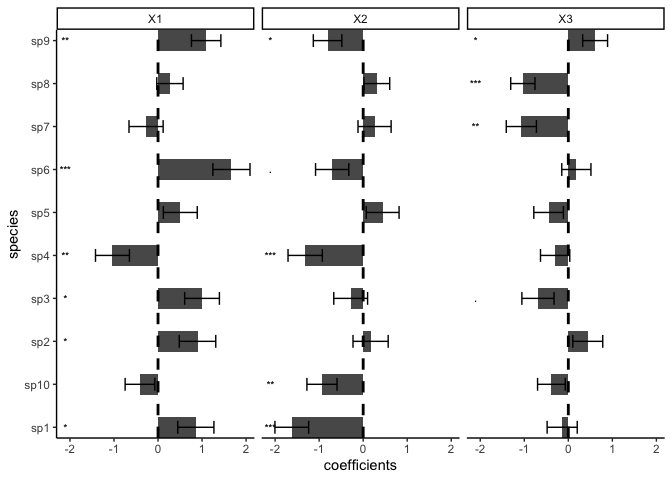
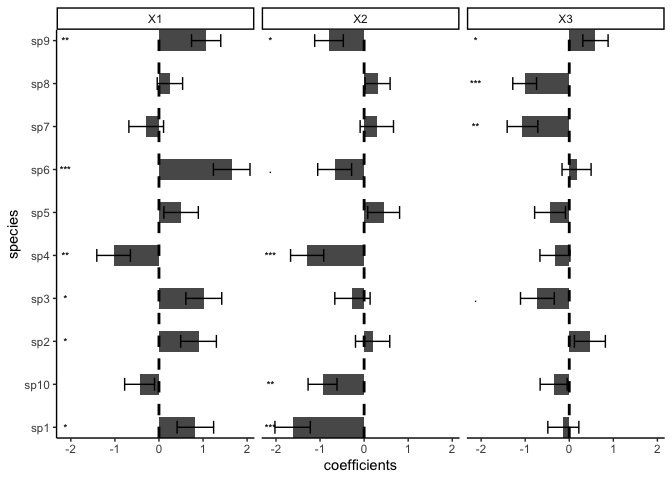
update install instruction

diff --git a/README.md b/README.md
@@ -6,6 +6,7 @@ state and is being actively
 developed.](http://www.repostatus.org/badges/latest/active.svg)](http://www.repostatus.org/#active)
 [![License: GPL
 v3](https://img.shields.io/badge/License-GPL%20v3-blue.svg)](https://www.gnu.org/licenses/gpl-3.0)
+[![CRAN_Status_Badge](http://www.r-pkg.org/badges/version/sjSDM)](https://cran.r-project.org/package=sjSDM)
 ![R-CMD-check](https://github.com/TheoreticalEcology/s-jSDM/workflows/R-CMD-check/badge.svg?branch=master)
 [![Publication](https://img.shields.io/badge/Publication-10.1111/2041-green.svg)](https://besjournals.onlinelibrary.wiley.com/doi/abs/10.1111/2041-210X.13687)
 
@@ -32,7 +33,7 @@ instructions below). Note: for both the R and the python package, python
 Install the package via
 
 ``` r
-devtools::install_github("https://github.com/TheoreticalEcology/s-jSDM", subdir = "sjSDM")
+install.packages("sjSDM")
 ```
 
 Depencies for the package can be installed before or after installing
@@ -70,7 +71,7 @@ Simulate a community and fit model:
 library(sjSDM)
 ```
 
-    ## ── Attaching sjSDM ──────────────────────────────────────────────────── 1.0.1 ──
+    ## ── Attaching sjSDM ──────────────────────────────────────────────────── 1.0.0 ──
 
     ## ✓ torch <environment> 
     ## ✓ torch_optimizer  
@@ -88,73 +89,73 @@ model <- sjSDM(Y = Occ, env = linear(data = Env, formula = ~X1+X2+X3), spatial =
 summary(model)
 ```
 
-    ## LogLik:  -518.5017 
+    ## LogLik:  -523.0463 
     ## Regularization loss:  0 
     ## 
     ## Species-species correlation matrix: 
     ## 
     ##  sp1  1.0000                                 
-    ##  sp2 -0.3470  1.0000                             
-    ##  sp3 -0.1460 -0.3670  1.0000                         
-    ##  sp4 -0.1420 -0.3340  0.6970  1.0000                     
-    ##  sp5  0.5890 -0.3290 -0.0930 -0.0910  1.0000                 
-    ##  sp6 -0.2270  0.3710  0.1460  0.1490 -0.0520  1.0000             
-    ##  sp7  0.4550 -0.1410  0.1280  0.1300  0.4940  0.2480  1.0000         
-    ##  sp8  0.2790  0.1620 -0.4380 -0.4200  0.2300 -0.0310  0.1360  1.0000     
-    ##  sp9 -0.0660 -0.0630  0.0730  0.0700 -0.3090 -0.2730 -0.2120 -0.1030  1.0000 
-    ##  sp10     0.2000  0.3850 -0.6080 -0.5740  0.2340  0.1050  0.1230  0.4380 -0.2360  1.0000
+    ##  sp2 -0.3370  1.0000                             
+    ##  sp3 -0.1490 -0.3520  1.0000                         
+    ##  sp4 -0.1690 -0.3120  0.6950  1.0000                     
+    ##  sp5  0.6020 -0.3360 -0.0950 -0.1020  1.0000                 
+    ##  sp6 -0.2250  0.3830  0.1630  0.1670 -0.0940  1.0000             
+    ##  sp7  0.4590 -0.1390  0.1470  0.1230  0.4940  0.2370  1.0000         
+    ##  sp8  0.2910  0.1520 -0.4220 -0.4120  0.2240 -0.0590  0.1370  1.0000     
+    ##  sp9 -0.0990 -0.0580  0.0720  0.0620 -0.3110 -0.2330 -0.2330 -0.0850  1.0000 
+    ##  sp10     0.2280  0.3710 -0.6010 -0.5630  0.2410  0.0750  0.1310  0.4160 -0.2220  1.0000
     ## 
     ## 
     ## 
     ## Spatial: 
-    ##             sp1        sp2       sp3       sp4       sp5       sp6       sp7
-    ## X1:X2 0.2117761 -0.5411496 0.5273638 0.0178497 0.3714764 0.1739493 0.4265523
-    ##             sp8       sp9      sp10
-    ## X1:X2 0.4786434 0.2528224 0.2498071
+    ##             sp1        sp2       sp3         sp4       sp5       sp6      sp7
+    ## X1:X2 0.2097643 -0.5288849 0.5181209 0.009623682 0.3563328 0.1980719 0.423929
+    ##             sp8       sp9     sp10
+    ## X1:X2 0.4698656 0.2615229 0.257226
     ## 
     ## 
     ## 
     ##                  Estimate  Std.Err Z value Pr(>|z|)    
-    ## sp1 (Intercept)  -0.03613  0.20898   -0.17  0.86273    
-    ## sp1 X1            0.85837  0.41098    2.09  0.03674 *  
-    ## sp1 X2           -1.62117  0.38306   -4.23  2.3e-05 ***
-    ## sp1 X3           -0.13945  0.34191   -0.41  0.68339    
-    ## sp2 (Intercept)   0.00787  0.21249    0.04  0.97044    
-    ## sp2 X1            0.89662  0.41437    2.16  0.03048 *  
-    ## sp2 X2            0.16857  0.39930    0.42  0.67290    
-    ## sp2 X3            0.44143  0.34029    1.30  0.19456    
-    ## sp3 (Intercept)  -0.34590  0.21713   -1.59  0.11114    
-    ## sp3 X1            0.99932  0.39444    2.53  0.01129 *  
-    ## sp3 X2           -0.28363  0.38410   -0.74  0.46027    
-    ## sp3 X3           -0.68942  0.36510   -1.89  0.05899 .  
-    ## sp4 (Intercept)  -0.06449  0.20208   -0.32  0.74962    
-    ## sp4 X1           -1.03488  0.38530   -2.69  0.00723 ** 
-    ## sp4 X2           -1.31683  0.38969   -3.38  0.00073 ***
-    ## sp4 X3           -0.29948  0.33239   -0.90  0.36760    
-    ## sp5 (Intercept)  -0.12917  0.20334   -0.64  0.52526    
-    ## sp5 X1            0.50595  0.38494    1.31  0.18872    
-    ## sp5 X2            0.44272  0.37256    1.19  0.23470    
-    ## sp5 X3           -0.44773  0.33606   -1.33  0.18276    
-    ## sp6 (Intercept)   0.21687  0.20450    1.06  0.28891    
-    ## sp6 X1            1.66739  0.42128    3.96  7.6e-05 ***
-    ## sp6 X2           -0.70400  0.37734   -1.87  0.06209 .  
-    ## sp6 X3            0.18265  0.33114    0.55  0.58124    
-    ## sp7 (Intercept)   0.01107  0.20303    0.05  0.95651    
-    ## sp7 X1           -0.27156  0.38754   -0.70  0.48348    
-    ## sp7 X2            0.25865  0.37613    0.69  0.49165    
-    ## sp7 X3           -1.06692  0.34221   -3.12  0.00182 ** 
-    ## sp8 (Intercept)   0.15339  0.15690    0.98  0.32827    
-    ## sp8 X1            0.27079  0.29912    0.91  0.36531    
-    ## sp8 X2            0.30999  0.29261    1.06  0.28942    
-    ## sp8 X3           -1.03282  0.27546   -3.75  0.00018 ***
-    ## sp9 (Intercept)   0.01853  0.17201    0.11  0.91422    
-    ## sp9 X1            1.09314  0.33410    3.27  0.00107 ** 
-    ## sp9 X2           -0.80828  0.32387   -2.50  0.01257 *  
-    ## sp9 X3            0.60859  0.28280    2.15  0.03140 *  
-    ## sp10 (Intercept) -0.06874  0.18586   -0.37  0.71147    
-    ## sp10 X1          -0.40988  0.33714   -1.22  0.22407    
-    ## sp10 X2          -0.93544  0.34203   -2.73  0.00624 ** 
-    ## sp10 X3          -0.38387  0.31449   -1.22  0.22223    
+    ## sp1 (Intercept)  -0.03977  0.21206   -0.19  0.85124    
+    ## sp1 X1            0.82571  0.41443    1.99  0.04633 *  
+    ## sp1 X2           -1.62219  0.40169   -4.04  5.4e-05 ***
+    ## sp1 X3           -0.13454  0.35189   -0.38  0.70221    
+    ## sp2 (Intercept)  -0.01476  0.21101   -0.07  0.94422    
+    ## sp2 X1            0.89789  0.40524    2.22  0.02671 *  
+    ## sp2 X2            0.19296  0.38875    0.50  0.61965    
+    ## sp2 X3            0.46829  0.35138    1.33  0.18263    
+    ## sp3 (Intercept)  -0.36290  0.22196   -1.64  0.10204    
+    ## sp3 X1            1.01730  0.40704    2.50  0.01245 *  
+    ## sp3 X2           -0.26439  0.40040   -0.66  0.50905    
+    ## sp3 X3           -0.72271  0.38358   -1.88  0.05955 .  
+    ## sp4 (Intercept)  -0.05324  0.20073   -0.27  0.79082    
+    ## sp4 X1           -1.02942  0.38118   -2.70  0.00692 ** 
+    ## sp4 X2           -1.29268  0.37599   -3.44  0.00059 ***
+    ## sp4 X3           -0.32540  0.33982   -0.96  0.33828    
+    ## sp5 (Intercept)  -0.14809  0.20236   -0.73  0.46427    
+    ## sp5 X1            0.50222  0.39101    1.28  0.19899    
+    ## sp5 X2            0.44313  0.36177    1.22  0.22062    
+    ## sp5 X3           -0.43606  0.34987   -1.25  0.21263    
+    ## sp6 (Intercept)   0.16414  0.20103    0.82  0.41422    
+    ## sp6 X1            1.65042  0.41523    3.97  7.0e-05 ***
+    ## sp6 X2           -0.66862  0.38461   -1.74  0.08213 .  
+    ## sp6 X3            0.16584  0.32957    0.50  0.61482    
+    ## sp7 (Intercept)  -0.00151  0.20626   -0.01  0.99416    
+    ## sp7 X1           -0.28922  0.39346   -0.74  0.46230    
+    ## sp7 X2            0.28814  0.37885    0.76  0.44691    
+    ## sp7 X3           -1.06155  0.34752   -3.05  0.00225 ** 
+    ## sp8 (Intercept)   0.13099  0.15214    0.86  0.38925    
+    ## sp8 X1            0.24814  0.28800    0.86  0.38890    
+    ## sp8 X2            0.30580  0.28384    1.08  0.28131    
+    ## sp8 X3           -1.01204  0.26964   -3.75  0.00017 ***
+    ## sp9 (Intercept)   0.03149  0.17057    0.18  0.85352    
+    ## sp9 X1            1.07060  0.33145    3.23  0.00124 ** 
+    ## sp9 X2           -0.79677  0.32507   -2.45  0.01424 *  
+    ## sp9 X3            0.59462  0.28658    2.07  0.03800 *  
+    ## sp10 (Intercept) -0.06706  0.18177   -0.37  0.71219    
+    ## sp10 X1          -0.43999  0.33907   -1.30  0.19441    
+    ## sp10 X2          -0.94309  0.32855   -2.87  0.00410 ** 
+    ## sp10 X3          -0.35444  0.30660   -1.16  0.24766    
     ## ---
     ## Signif. codes:  0 '***' 0.001 '**' 0.01 '*' 0.05 '.' 0.1 ' ' 1
 
@@ -162,73 +163,73 @@ summary(model)
 plot(model)
 ```
 
-    ## LogLik:  -518.5017 
+    ## LogLik:  -523.0463 
     ## Regularization loss:  0 
     ## 
     ## Species-species correlation matrix: 
     ## 
     ##  sp1  1.0000                                 
-    ##  sp2 -0.3470  1.0000                             
-    ##  sp3 -0.1460 -0.3670  1.0000                         
-    ##  sp4 -0.1420 -0.3340  0.6970  1.0000                     
-    ##  sp5  0.5890 -0.3290 -0.0930 -0.0910  1.0000                 
-    ##  sp6 -0.2270  0.3710  0.1460  0.1490 -0.0520  1.0000             
-    ##  sp7  0.4550 -0.1410  0.1280  0.1300  0.4940  0.2480  1.0000         
-    ##  sp8  0.2790  0.1620 -0.4380 -0.4200  0.2300 -0.0310  0.1360  1.0000     
-    ##  sp9 -0.0660 -0.0630  0.0730  0.0700 -0.3090 -0.2730 -0.2120 -0.1030  1.0000 
-    ##  sp10     0.2000  0.3850 -0.6080 -0.5740  0.2340  0.1050  0.1230  0.4380 -0.2360  1.0000
+    ##  sp2 -0.3370  1.0000                             
+    ##  sp3 -0.1490 -0.3520  1.0000                         
+    ##  sp4 -0.1690 -0.3120  0.6950  1.0000                     
+    ##  sp5  0.6020 -0.3360 -0.0950 -0.1020  1.0000                 
+    ##  sp6 -0.2250  0.3830  0.1630  0.1670 -0.0940  1.0000             
+    ##  sp7  0.4590 -0.1390  0.1470  0.1230  0.4940  0.2370  1.0000         
+    ##  sp8  0.2910  0.1520 -0.4220 -0.4120  0.2240 -0.0590  0.1370  1.0000     
+    ##  sp9 -0.0990 -0.0580  0.0720  0.0620 -0.3110 -0.2330 -0.2330 -0.0850  1.0000 
+    ##  sp10     0.2280  0.3710 -0.6010 -0.5630  0.2410  0.0750  0.1310  0.4160 -0.2220  1.0000
     ## 
     ## 
     ## 
     ## Spatial: 
-    ##             sp1        sp2       sp3       sp4       sp5       sp6       sp7
-    ## X1:X2 0.2117761 -0.5411496 0.5273638 0.0178497 0.3714764 0.1739493 0.4265523
-    ##             sp8       sp9      sp10
-    ## X1:X2 0.4786434 0.2528224 0.2498071
+    ##             sp1        sp2       sp3         sp4       sp5       sp6      sp7
+    ## X1:X2 0.2097643 -0.5288849 0.5181209 0.009623682 0.3563328 0.1980719 0.423929
+    ##             sp8       sp9     sp10
+    ## X1:X2 0.4698656 0.2615229 0.257226
     ## 
     ## 
     ## 
     ##                  Estimate  Std.Err Z value Pr(>|z|)    
-    ## sp1 (Intercept)  -0.03613  0.20898   -0.17  0.86273    
-    ## sp1 X1            0.85837  0.41098    2.09  0.03674 *  
-    ## sp1 X2           -1.62117  0.38306   -4.23  2.3e-05 ***
-    ## sp1 X3           -0.13945  0.34191   -0.41  0.68339    
-    ## sp2 (Intercept)   0.00787  0.21249    0.04  0.97044    
-    ## sp2 X1            0.89662  0.41437    2.16  0.03048 *  
-    ## sp2 X2            0.16857  0.39930    0.42  0.67290    
-    ## sp2 X3            0.44143  0.34029    1.30  0.19456    
-    ## sp3 (Intercept)  -0.34590  0.21713   -1.59  0.11114    
-    ## sp3 X1            0.99932  0.39444    2.53  0.01129 *  
-    ## sp3 X2           -0.28363  0.38410   -0.74  0.46027    
-    ## sp3 X3           -0.68942  0.36510   -1.89  0.05899 .  
-    ## sp4 (Intercept)  -0.06449  0.20208   -0.32  0.74962    
-    ## sp4 X1           -1.03488  0.38530   -2.69  0.00723 ** 
-    ## sp4 X2           -1.31683  0.38969   -3.38  0.00073 ***
-    ## sp4 X3           -0.29948  0.33239   -0.90  0.36760    
-    ## sp5 (Intercept)  -0.12917  0.20334   -0.64  0.52526    
-    ## sp5 X1            0.50595  0.38494    1.31  0.18872    
-    ## sp5 X2            0.44272  0.37256    1.19  0.23470    
-    ## sp5 X3           -0.44773  0.33606   -1.33  0.18276    
-    ## sp6 (Intercept)   0.21687  0.20450    1.06  0.28891    
-    ## sp6 X1            1.66739  0.42128    3.96  7.6e-05 ***
-    ## sp6 X2           -0.70400  0.37734   -1.87  0.06209 .  
-    ## sp6 X3            0.18265  0.33114    0.55  0.58124    
-    ## sp7 (Intercept)   0.01107  0.20303    0.05  0.95651    
-    ## sp7 X1           -0.27156  0.38754   -0.70  0.48348    
-    ## sp7 X2            0.25865  0.37613    0.69  0.49165    
-    ## sp7 X3           -1.06692  0.34221   -3.12  0.00182 ** 
-    ## sp8 (Intercept)   0.15339  0.15690    0.98  0.32827    
-    ## sp8 X1            0.27079  0.29912    0.91  0.36531    
-    ## sp8 X2            0.30999  0.29261    1.06  0.28942    
-    ## sp8 X3           -1.03282  0.27546   -3.75  0.00018 ***
-    ## sp9 (Intercept)   0.01853  0.17201    0.11  0.91422    
-    ## sp9 X1            1.09314  0.33410    3.27  0.00107 ** 
-    ## sp9 X2           -0.80828  0.32387   -2.50  0.01257 *  
-    ## sp9 X3            0.60859  0.28280    2.15  0.03140 *  
-    ## sp10 (Intercept) -0.06874  0.18586   -0.37  0.71147    
-    ## sp10 X1          -0.40988  0.33714   -1.22  0.22407    
-    ## sp10 X2          -0.93544  0.34203   -2.73  0.00624 ** 
-    ## sp10 X3          -0.38387  0.31449   -1.22  0.22223    
+    ## sp1 (Intercept)  -0.03977  0.21206   -0.19  0.85124    
+    ## sp1 X1            0.82571  0.41443    1.99  0.04633 *  
+    ## sp1 X2           -1.62219  0.40169   -4.04  5.4e-05 ***
+    ## sp1 X3           -0.13454  0.35189   -0.38  0.70221    
+    ## sp2 (Intercept)  -0.01476  0.21101   -0.07  0.94422    
+    ## sp2 X1            0.89789  0.40524    2.22  0.02671 *  
+    ## sp2 X2            0.19296  0.38875    0.50  0.61965    
+    ## sp2 X3            0.46829  0.35138    1.33  0.18263    
+    ## sp3 (Intercept)  -0.36290  0.22196   -1.64  0.10204    
+    ## sp3 X1            1.01730  0.40704    2.50  0.01245 *  
+    ## sp3 X2           -0.26439  0.40040   -0.66  0.50905    
+    ## sp3 X3           -0.72271  0.38358   -1.88  0.05955 .  
+    ## sp4 (Intercept)  -0.05324  0.20073   -0.27  0.79082    
+    ## sp4 X1           -1.02942  0.38118   -2.70  0.00692 ** 
+    ## sp4 X2           -1.29268  0.37599   -3.44  0.00059 ***
+    ## sp4 X3           -0.32540  0.33982   -0.96  0.33828    
+    ## sp5 (Intercept)  -0.14809  0.20236   -0.73  0.46427    
+    ## sp5 X1            0.50222  0.39101    1.28  0.19899    
+    ## sp5 X2            0.44313  0.36177    1.22  0.22062    
+    ## sp5 X3           -0.43606  0.34987   -1.25  0.21263    
+    ## sp6 (Intercept)   0.16414  0.20103    0.82  0.41422    
+    ## sp6 X1            1.65042  0.41523    3.97  7.0e-05 ***
+    ## sp6 X2           -0.66862  0.38461   -1.74  0.08213 .  
+    ## sp6 X3            0.16584  0.32957    0.50  0.61482    
+    ## sp7 (Intercept)  -0.00151  0.20626   -0.01  0.99416    
+    ## sp7 X1           -0.28922  0.39346   -0.74  0.46230    
+    ## sp7 X2            0.28814  0.37885    0.76  0.44691    
+    ## sp7 X3           -1.06155  0.34752   -3.05  0.00225 ** 
+    ## sp8 (Intercept)   0.13099  0.15214    0.86  0.38925    
+    ## sp8 X1            0.24814  0.28800    0.86  0.38890    
+    ## sp8 X2            0.30580  0.28384    1.08  0.28131    
+    ## sp8 X3           -1.01204  0.26964   -3.75  0.00017 ***
+    ## sp9 (Intercept)   0.03149  0.17057    0.18  0.85352    
+    ## sp9 X1            1.07060  0.33145    3.23  0.00124 ** 
+    ## sp9 X2           -0.79677  0.32507   -2.45  0.01424 *  
+    ## sp9 X3            0.59462  0.28658    2.07  0.03800 *  
+    ## sp10 (Intercept) -0.06706  0.18177   -0.37  0.71219    
+    ## sp10 X1          -0.43999  0.33907   -1.30  0.19441    
+    ## sp10 X2          -0.94309  0.32855   -2.87  0.00410 ** 
+    ## sp10 X3          -0.35444  0.30660   -1.16  0.24766    
     ## ---
     ## Signif. codes:  0 '***' 0.001 '**' 0.01 '*' 0.05 '.' 0.1 ' ' 1
 
@@ -255,16 +256,16 @@ print(imp)
 ```
 
     ##    sp       env      spatial     biotic
-    ## 1   1 0.8607188 3.239575e-04 0.13895726
-    ## 2   2 0.5750836 3.900431e-03 0.42101595
-    ## 3   3 0.7047927 3.665486e-03 0.29154167
-    ## 4   4 0.9035402 2.383881e-06 0.09645750
-    ## 5   5 0.5003806 2.760055e-03 0.49685937
-    ## 6   6 0.8590981 2.233695e-04 0.14067854
-    ## 7   7 0.5326309 1.682392e-03 0.46568665
-    ## 8   8 0.8897696 3.936182e-03 0.10629424
-    ## 9   9 0.7364383 5.591083e-04 0.26300257
-    ## 10 10 0.9725977 1.205333e-03 0.02619702
+    ## 1   1 0.8539057 3.194661e-04 0.14577481
+    ## 2   2 0.5897330 3.662053e-03 0.40660492
+    ## 3   3 0.7400899 3.535578e-03 0.25637448
+    ## 4   4 0.9069016 7.076025e-07 0.09309772
+    ## 5   5 0.5101848 2.644762e-03 0.48717043
+    ## 6   6 0.8644908 3.016936e-04 0.13520756
+    ## 7   7 0.5335647 1.650771e-03 0.46478456
+    ## 8   8 0.8930446 3.978094e-03 0.10297730
+    ## 9   9 0.7327270 6.191073e-04 0.26665390
+    ## 10 10 0.9761007 1.266072e-03 0.02263325
 
 ``` r
 plot(imp)
@@ -287,9 +288,9 @@ print(an)
     ## Terms added sequentially:
     ## 
     ##          Deviance Residual deviance R2 Nagelkerke R2 McFadden
-    ## Biotic  156.64758         515.82178       0.79122      0.1133
-    ## Abiotic 185.83240         329.98938       0.96744      0.2477
-    ## Spatial   2.97705         327.01233       0.96840      0.2499
+    ## Biotic  151.02063         521.48694       0.77914      0.1092
+    ## Abiotic 192.75159         328.73535       0.96786      0.2487
+    ## Spatial  -7.40771         336.14307       0.96539      0.2433
 
 ``` r
 plot(an)
@@ -335,7 +336,7 @@ model.fit(Env, Occ, batch_size = 20, epochs = 10)
 # print(model.covariance)
 ```
 
-    ## Iter: 0/10   0%|          | [00:00, ?it/s]Iter: 0/10   0%|          | [00:00, ?it/s, loss=7.321]Iter: 1/10  10%|#         | [00:00,  5.94it/s, loss=7.321]Iter: 1/10  10%|#         | [00:00,  5.94it/s, loss=7.321]Iter: 1/10  10%|#         | [00:00,  5.94it/s, loss=7.288]Iter: 1/10  10%|#         | [00:00,  5.94it/s, loss=7.288]Iter: 1/10  10%|#         | [00:00,  5.94it/s, loss=7.306]Iter: 1/10  10%|#         | [00:00,  5.94it/s, loss=7.283]Iter: 1/10  10%|#         | [00:00,  5.94it/s, loss=7.27] Iter: 1/10  10%|#         | [00:00,  5.94it/s, loss=7.289]Iter: 8/10  80%|########  | [00:00, 33.59it/s, loss=7.289]Iter: 8/10  80%|########  | [00:00, 33.59it/s, loss=7.255]Iter: 8/10  80%|########  | [00:00, 33.59it/s, loss=7.265]Iter: 10/10 100%|##########| [00:00, 32.14it/s, loss=7.265]
+    ## Iter: 0/10   0%|          | [00:00, ?it/s]Iter: 0/10   0%|          | [00:00, ?it/s, loss=7.358]Iter: 1/10  10%|#         | [00:00,  5.12it/s, loss=7.358]Iter: 1/10  10%|#         | [00:00,  5.12it/s, loss=7.331]Iter: 1/10  10%|#         | [00:00,  5.12it/s, loss=7.323]Iter: 1/10  10%|#         | [00:00,  5.12it/s, loss=7.324]Iter: 1/10  10%|#         | [00:00,  5.12it/s, loss=7.334]Iter: 1/10  10%|#         | [00:00,  5.12it/s, loss=7.318]Iter: 6/10  60%|######    | [00:00, 23.86it/s, loss=7.318]Iter: 6/10  60%|######    | [00:00, 23.86it/s, loss=7.326]Iter: 6/10  60%|######    | [00:00, 23.86it/s, loss=7.309]Iter: 6/10  60%|######    | [00:00, 23.86it/s, loss=7.304]Iter: 6/10  60%|######    | [00:00, 23.86it/s, loss=7.286]Iter: 10/10 100%|##########| [00:00, 26.03it/s, loss=7.286]
 
 Calculate Importance:
 
@@ -347,25 +348,25 @@ covX = fa.covariance( torch.tensor(Env).t() ).data.cpu().numpy()
 fa.importance(beta=Beta, covX=covX, sigma=Sigma)
 ```
 
-    ## {'env': array([[ 2.01624073e-03,  4.30547167e-03,  9.72515251e-03,
-    ##          1.57106686e-02,  1.52279977e-02],
-    ##        [ 7.17321597e-03,  9.13473498e-03,  3.63904328e-05,
-    ##          8.77751689e-03,  5.95719670e-04],
-    ##        [ 1.16564417e-02,  1.46691175e-02,  7.04750768e-04,
-    ##          4.43916908e-03,  4.65077721e-03],
-    ##        [ 9.54728015e-03,  1.32002533e-05,  7.40117254e-03,
-    ##          1.19334860e-02,  1.51454210e-02],
-    ##        [ 1.06326239e-02,  1.03140104e-04,  1.82005798e-03,
-    ##          5.99095458e-03,  1.40121682e-02],
-    ##        [-7.82942243e-06,  5.10592596e-04,  7.17978366e-03,
-    ##          1.00550009e-02,  4.64413781e-03],
-    ##        [ 5.81273716e-03,  8.43940210e-03, -3.09813622e-05,
-    ##         -6.87289939e-05,  1.60868634e-02],
-    ##        [ 1.39359059e-02,  1.84255268e-03,  8.07214249e-03,
-    ##          1.18205510e-02,  1.13327922e-02],
-    ##        [ 6.89498289e-03,  6.32241648e-03,  2.94192974e-03,
-    ##          7.44746649e-05, -1.94817712e-05],
-    ##        [ 1.35545945e-02,  4.42006765e-03,  5.76614868e-04,
-    ##          8.61835666e-03,  8.24986864e-03]], dtype=float32), 'biotic': array([0.9530145 , 0.9742824 , 0.96387976, 0.9559594 , 0.9674411 ,
-    ##        0.97761834, 0.9697607 , 0.9529961 , 0.9837856 , 0.9645805 ],
+    ## {'env': array([[ 6.00627158e-04,  1.14630593e-03,  1.09053524e-02,
+    ##          1.05654253e-02,  1.45557038e-02],
+    ##        [ 9.56870615e-03,  4.21576016e-03,  1.06933614e-04,
+    ##          1.33172970e-03,  1.05470214e-02],
+    ##        [ 2.32625613e-03,  1.61409937e-02,  6.64134495e-05,
+    ##          9.74757495e-05,  2.18663458e-03],
+    ##        [ 8.52300692e-03,  1.07057637e-03,  1.46411667e-02,
+    ##          8.68435390e-03,  7.08195148e-03],
+    ##        [-7.17847797e-06, -1.23505345e-06,  1.45622957e-02,
+    ##          3.56136751e-03,  4.91820509e-03],
+    ##        [-1.31524590e-04,  1.22741107e-02,  1.22232996e-02,
+    ##          7.41305854e-03,  1.47087574e-02],
+    ##        [ 1.26086129e-02,  1.54245849e-04,  6.33575348e-03,
+    ##          3.37137189e-03,  9.59621649e-03],
+    ##        [ 8.97107311e-05,  5.07542631e-03,  9.64390172e-04,
+    ##          1.04126502e-02,  1.18228560e-02],
+    ##        [ 9.25059337e-03,  5.78574790e-03,  9.44872445e-05,
+    ##          8.52529984e-03,  3.14252358e-03],
+    ##        [ 1.40638428e-03,  6.01684162e-03,  4.81087307e-04,
+    ##          1.57201290e-02,  1.10209584e-02]], dtype=float32), 'biotic': array([0.9622266 , 0.9742299 , 0.9791822 , 0.95999897, 0.9769665 ,
+    ##        0.95351225, 0.96793383, 0.971635  , 0.97320133, 0.9653546 ],
     ##       dtype=float32)}
